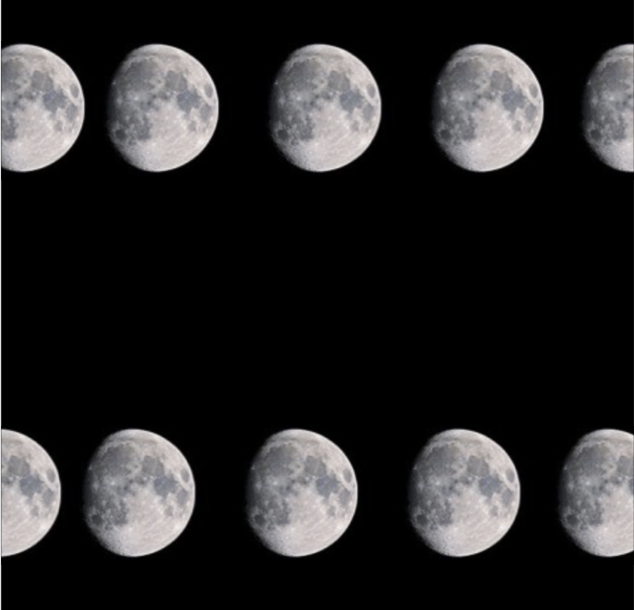
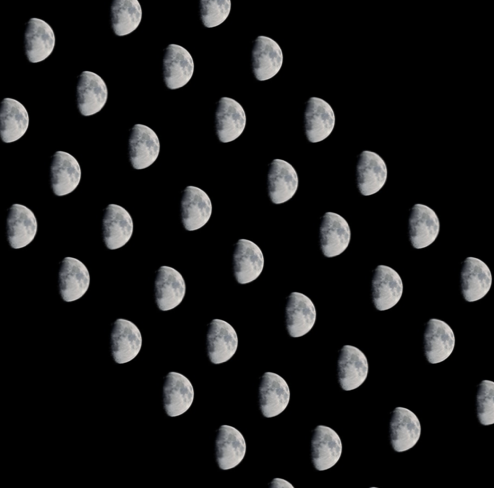
edit

diff --git a/moon/index.html b/moon/index.html
@@ -11,17 +11,17 @@
     <link href="assets/css/styles.css" media="all" rel="stylesheet" />
     
  
-    <body bgcolor=#333333 background="assets/img/background.png"  >
+    <body bgcolor=#333333 background="assets/img/moon back.gif"  >
   
       <H1 ALIGN=center>
-          <img src="assets/img/t2.png"> <IMG></IMG>
+          <img src="assets/img/T2.png"> <IMG></IMG>
   
   
-  
+
         <div class="DATES">
-         
-         <ul></ul>
-          <li> <a href="dates/1/index.html">THE START</a></li>
+       
+            <ul></ul>
+             <li> <a href="dates/1/index.html">open</a></li>
           
           
           

diff --git a/moon/dates/6/index.html b/moon/dates/6/index.html
@@ -12,7 +12,7 @@
     
   </head>
  
-  <body bgcolor=#333333 background="assets/img/66.png"  ></body>
+  <body bgcolor=#333333 background="assets/img/6.png"  ></body>
 
         <a href="../7/index.html">december 14th, 2016</a>
         <h2 ALIGN=RIGHT> <H1></H1>

diff --git a/moon/dates/5/index.html b/moon/dates/5/index.html
@@ -12,7 +12,7 @@
     
   </head>
  
-  <body bgcolor=#333333 background="assets/img/5m1.png" >
+  <body bgcolor=#333333 background="assets/img/5.png" >
 
     <a href="../6/index.html">may, 14th, 2015</a>
     <h2 ALIGN=RIGHT> <H1></H1> 
